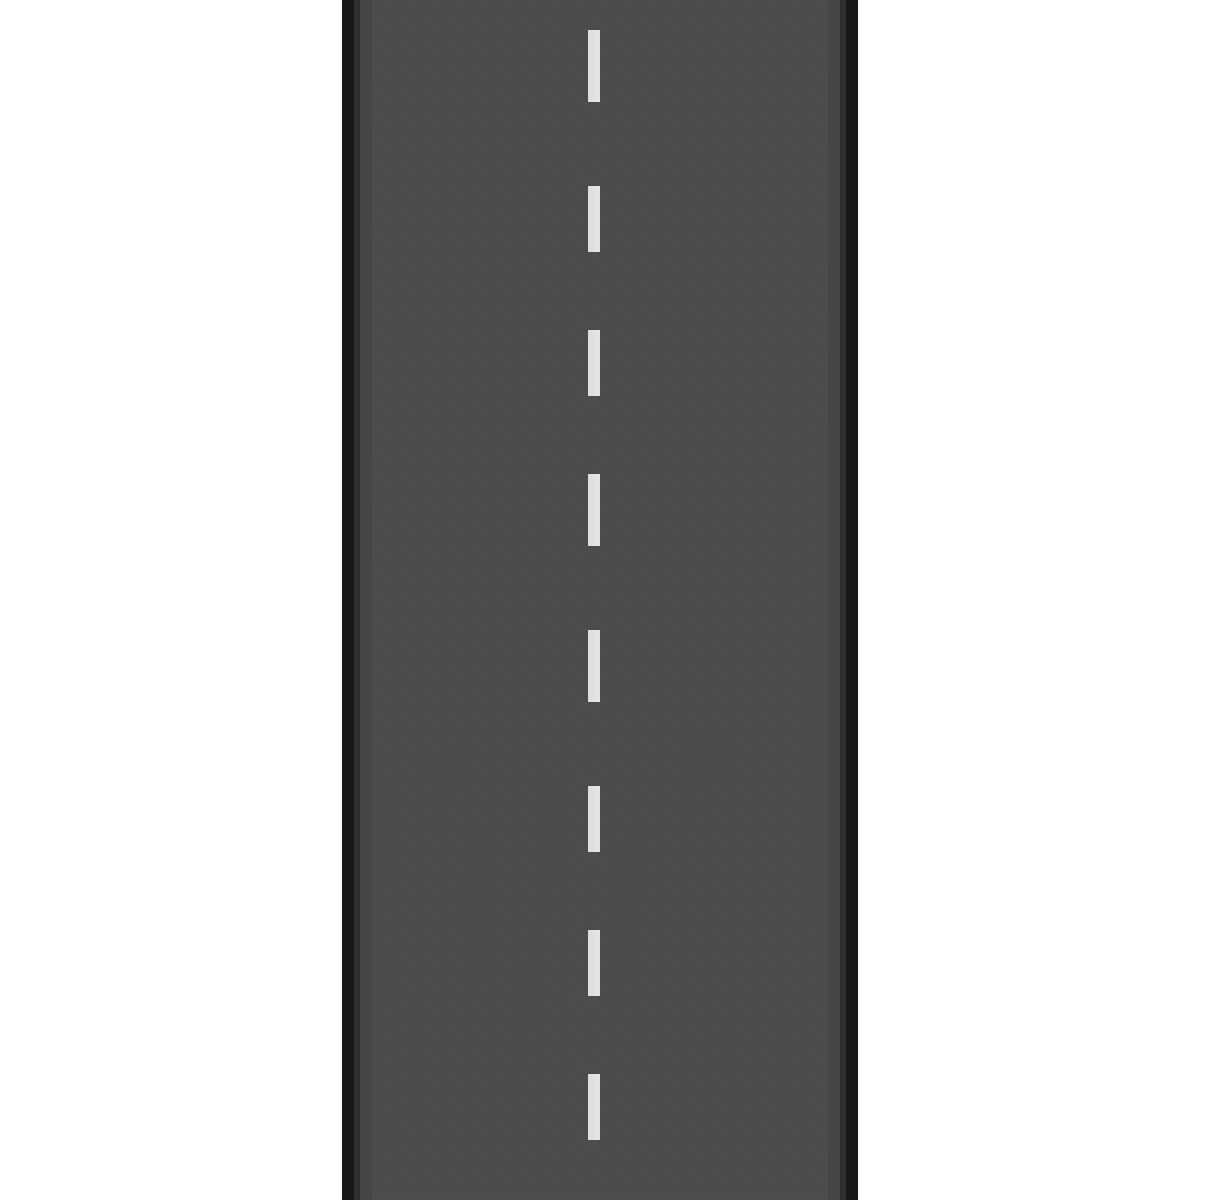
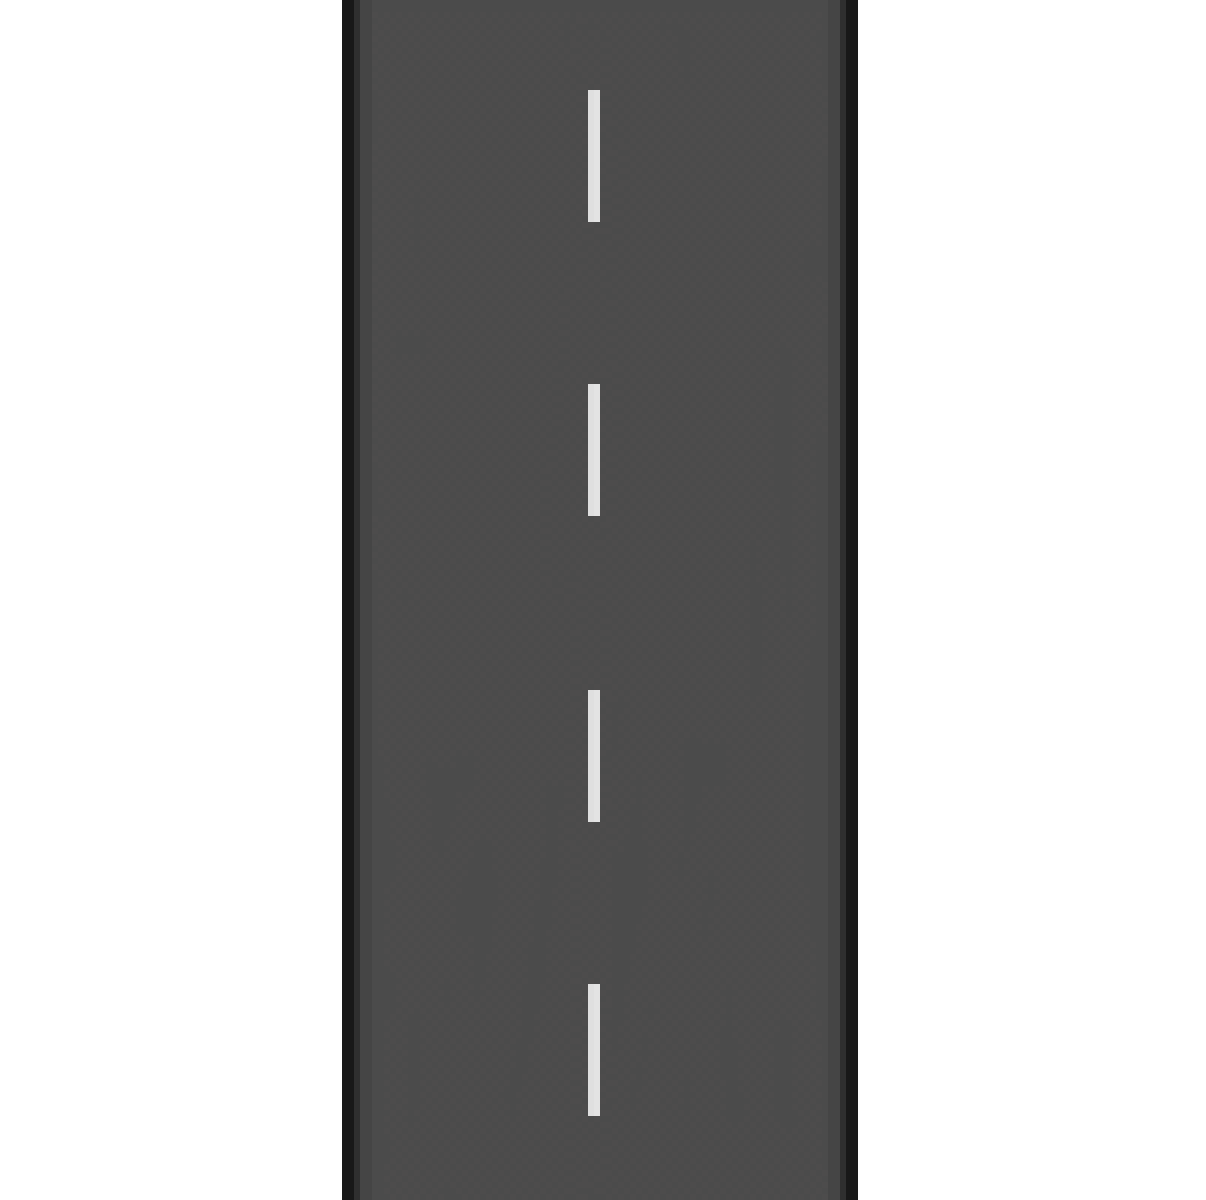
fixed spawn positioning

diff --git a/PassingLane.py b/PassingLane.py
@@ -21,7 +21,7 @@ class Globals:
     WHITE_COLOR = (255,255,255)
     BLACK_COLOR = (0,0,0) 
     GAME_STATES = ["startup_screen","main_menu","test_scale"]
-    GAME_STATE = "main_menu"
+    GAME_STATE = "startup_screen"
     delta_time = clock.get_time() / 1000
     input_device = "pc"
 
@@ -136,6 +136,11 @@ class MainMenu:
         selected_option = 0
         options_y_offset = 65
         options_x_end = 40
+        
+        sidemenu_surface = pygame.Surface((SCREEN_WIDTH/2.7,SCREEN_HEIGHT),pygame.SRCALPHA)
+
+        sidemenu_rect = pygame.Rect(-50,0,SCREEN_WIDTH/2.7,SCREEN_HEIGHT)
+       
 
         actions = {
             pygame.K_w: lambda: MainMenu.SideMenu.getSelectedOption("up"),
@@ -157,6 +162,8 @@ class MainMenu:
                     MainMenu.SideMenu.selected_option = 0
 
         def drawMenuOptions():
+            pygame.draw.rect(MainMenu.SideMenu.sidemenu_surface,(0,0,0,120),MainMenu.SideMenu.sidemenu_rect)
+            SCREEN.blit(MainMenu.SideMenu.sidemenu_surface,(0,0))
 
             for option in enumerate(MainMenu.SideMenu.menu_options) :
 
@@ -179,6 +186,7 @@ class MainMenu:
                 else:
                     sidemenu_option.text.set_alpha(max(sidemenu_option.transparency-10,sidemenu_option.set_transparency))
 
+                
                 SCREEN.blit(sidemenu_option.text,sidemenu_option.rect)
 
     class SideMenuOption:
@@ -230,12 +238,12 @@ class CrusieGameMode:
     class Road:
 
         road_types = {
-            "default_highways" : {"straight":"assets\\roads\\default_straight_road1.png"},
+            "default_highways" : {"straight":"assets\\roads\\default_straight_road.png"},
         }
 
         roads = []
         
-        road_scale = .2
+        road_scale = .5
 
         def __init__(self,x,y,y_vel,road_types,road_scale):
             self.x = x
@@ -252,7 +260,7 @@ class CrusieGameMode:
             for road in CrusieGameMode.Road.roads:
                 SCREEN.blit(road.surface,road.rect)
 
-                road.rect.y +=5
+                road.rect.y +=10
 
                 if road.rect.y >= road.surface.get_size()[1] * 3:
                     road.rect.y = -(road.surface.get_size()[1] -5)
@@ -270,7 +278,7 @@ class CrusieGameMode:
         def draw_lanes():
 
             for index,lane in enumerate(CrusieGameMode.Lane.lanes):
-                lane.rect.x = lane.width * index + CrusieGameMode.Road.roads[0].rect.centerx 
+                lane.rect.x = lane.width * index + CrusieGameMode.Road.roads[0].rect.centerx - lane.width *2 -1
                 pygame.draw.rect(SCREEN,(lane.color),lane.rect,1)
                 
 
@@ -292,17 +300,12 @@ class CrusieGameMode:
         road.rect.y = -index * road.surface.get_size()[1]
 
 
-        
-      
-
-
-
-class TestScale:
+class FovScale:
 
     class Camera:
         actions = {
-            pygame.K_w: lambda: TestScale.cameraScale("up"),
-            pygame.K_s: lambda: TestScale.cameraScale("down")
+            pygame.K_w: lambda: FovScale.cameraScale("up"),
+            pygame.K_s: lambda: FovScale.cameraScale("down")
         }
 
         startScale = 1
@@ -334,37 +337,52 @@ class TestScale:
             self.color = color
 
     def drawRects():
-        for otherRects in TestScale.otherRects:
-            pygame.draw.rect(SCREEN,TestScale.myRect.color,TestScale.myRect.rect,1)
+        for otherRects in FovScale.otherRects:
+            pygame.draw.rect(SCREEN,FovScale.myRect.color,FovScale.myRect.rect,1)
             pygame.draw.rect(SCREEN,otherRects.color,otherRects.rect,1)
 
     def cameraScale(scale_direction):
                 
-        TestScale.Camera.globalScale +=1 if scale_direction == "up" else -1 if scale_direction == "down" else None #INCREASES CAMERA GLOBAL SCALE OF BUTTON PRESS UP OR DOWN 
+        FovScale.Camera.globalScale +=1 if scale_direction == "up" else -1 if scale_direction == "down" else None #INCREASES CAMERA GLOBAL SCALE OF BUTTON PRESS UP OR DOWN 
         
-        for otherRects in TestScale.otherRects:
+        for otherRects in FovScale.otherRects:
 
-            xOrientationVal = -1 if TestScale.myRect.x > otherRects.x else 1 if TestScale.myRect.x < otherRects.x else 0 #DETERMINES WHAT SIDE THE RECTANGLE IS ON IN RELATION TO MYRECT
-            yOrientationVal = 1 if TestScale.myRect.y > otherRects.y else -1 if TestScale.myRect.y < otherRects.y else 0 #DETERMINES WHAT SIDE THE RECTANGLE IS ON IN RELATION TO MYRECT
+            xOrientationVal = -1 if FovScale.myRect.x > otherRects.x else 1 if FovScale.myRect.x < otherRects.x else 0 #DETERMINES WHAT SIDE THE RECTANGLE IS ON IN RELATION TO MYRECT
+            yOrientationVal = 1 if FovScale.myRect.y > otherRects.y else -1 if FovScale.myRect.y < otherRects.y else 0 #DETERMINES WHAT SIDE THE RECTANGLE IS ON IN RELATION TO MYRECT
             
-            otherRects.x +=(TestScale.Camera.globalScaleMultipier*xOrientationVal) if scale_direction == "up" else (-TestScale.Camera.globalScaleMultipier*xOrientationVal) if scale_direction == "down" else None #ALLOWS THE OTHER RECTANGLES TO MOVE IN CERTAIN DIRECTION WITH SCALE IN ORIENTATION TO MY RECT 
-            otherRects.y +=(-TestScale.Camera.globalScaleMultipier*yOrientationVal) if scale_direction == "up" else (TestScale.Camera.globalScaleMultipier*yOrientationVal) if scale_direction == "down" else None #ALLOWS THE OTHER RECTANGLES TO MOVE IN CERTAIN DIRECTION WITH SCALE IN ORIENTATION TO MY RECT 
+            otherRects.x +=(FovScale.Camera.globalScaleMultipier*xOrientationVal) if scale_direction == "up" else (-FovScale.Camera.globalScaleMultipier*xOrientationVal) if scale_direction == "down" else None #ALLOWS THE OTHER RECTANGLES TO MOVE IN CERTAIN DIRECTION WITH SCALE IN ORIENTATION TO MY RECT 
+            otherRects.y +=(-FovScale.Camera.globalScaleMultipier*yOrientationVal) if scale_direction == "up" else (FovScale.Camera.globalScaleMultipier*yOrientationVal) if scale_direction == "down" else None #ALLOWS THE OTHER RECTANGLES TO MOVE IN CERTAIN DIRECTION WITH SCALE IN ORIENTATION TO MY RECT 
 
-            TestScale.myRect.rect = pygame.Rect(TestScale.myRect.x-TestScale.Camera.globalScale/2,
-                                                TestScale.myRect.y-TestScale.Camera.globalScale/2,
-                                                TestScale.myRect.width + TestScale.Camera.globalScale,
-                                                TestScale.myRect.height + TestScale.Camera.globalScale)
+            FovScale.myRect.rect = pygame.Rect(FovScale.myRect.x-FovScale.Camera.globalScale/2,
+                                                FovScale.myRect.y-FovScale.Camera.globalScale/2,
+                                                FovScale.myRect.width + FovScale.Camera.globalScale,
+                                                FovScale.myRect.height + FovScale.Camera.globalScale)
 
-            otherRects.rect = pygame.Rect(otherRects.x-TestScale.Camera.globalScale/2,
-                                                otherRects.y-TestScale.Camera.globalScale/2,
-                                                otherRects.width + TestScale.Camera.globalScale,
-                                                otherRects.height + TestScale.Camera.globalScale)
+            otherRects.rect = pygame.Rect(otherRects.x-FovScale.Camera.globalScale/2,
+                                                otherRects.y-FovScale.Camera.globalScale/2,
+                                                otherRects.width + FovScale.Camera.globalScale,
+                                                otherRects.height + FovScale.Camera.globalScale)
 
 
     myRect = MyRect(SCREEN_WIDTH/2-25,SCREEN_HEIGHT/2+50,35,50,(255,255,255))
     otherRect1 = OtherRectangle(600,SCREEN_HEIGHT/2+50,35,50,(255,255,255))
     otherRect2 = OtherRectangle(100,SCREEN_HEIGHT/2+50,35,50,(255,255,255))
     otherRects = [otherRect1,otherRect2]
+
+
+
+
+
+
+
+
+
+
+
+
+
+
+
 
 
 def fps_counter():
@@ -390,13 +408,13 @@ while run:
     
 
     if Globals.GAME_STATE == "main_menu": 
-        SCREEN.fill((80,80,80))
+        SCREEN.fill((80,150,68))
       
         CrusieGameMode.Road.drawRoad()  
         CrusieGameMode.Lane.draw_lanes()
         CrusieGameMode.drawPlayerBoundingUi()
         MainMenu.SideMenu.drawMenuOptions()
-        TestScale.drawRects()
+        FovScale.drawRects()
         
         
     if Globals.GAME_STATE == "test_scale":
@@ -420,7 +438,7 @@ while run:
             if Globals.GAME_STATE == "main_menu":
                 if event.key in MainMenu.SideMenu.actions:
                     MainMenu.SideMenu.actions[event.key]()
-                    TestScale.Camera.actions[event.key]()
+                    FovScale.Camera.actions[event.key]()
 
            
              
